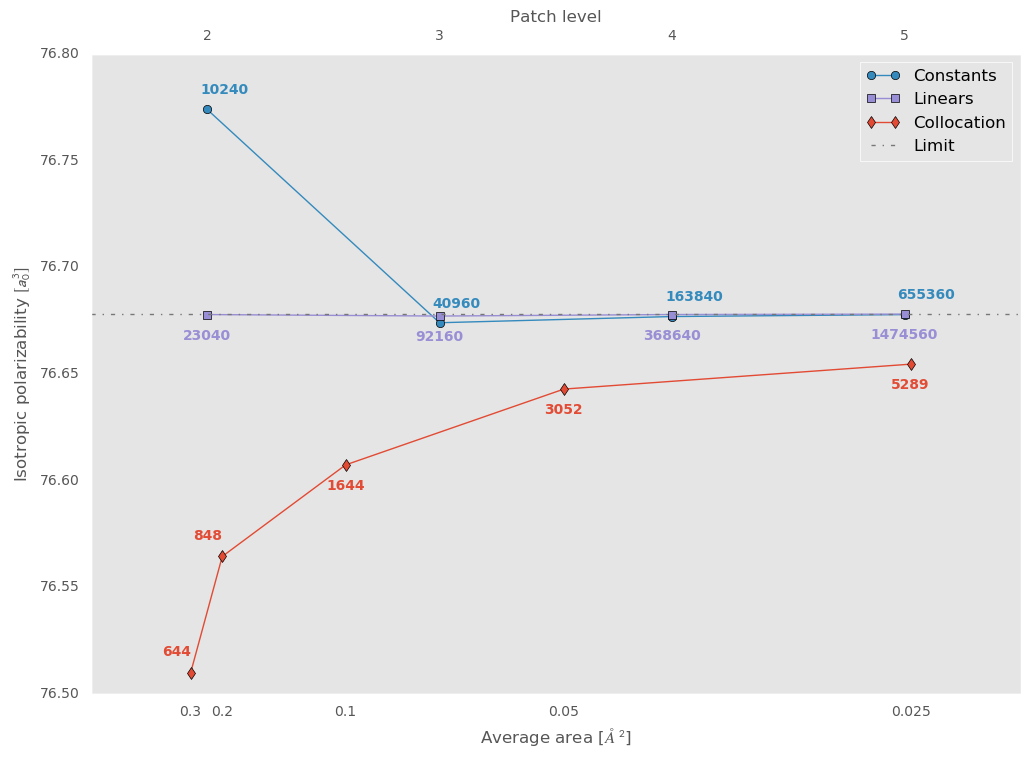
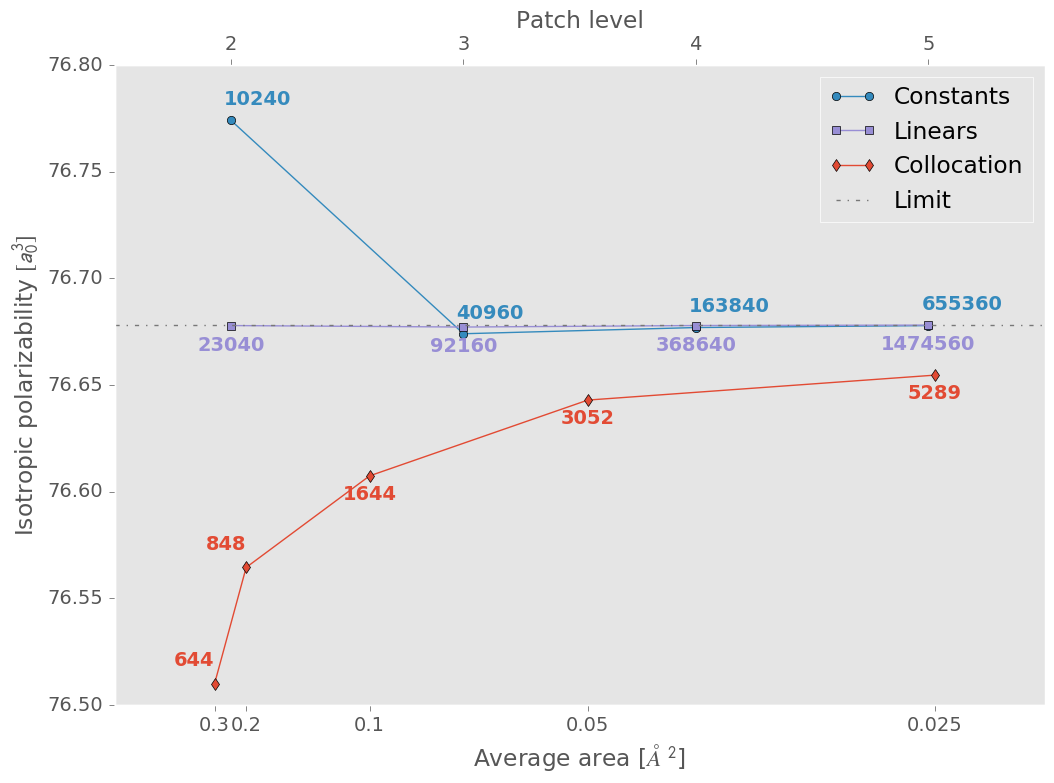
wemlin paper summary: add picture to text.

diff --git a/Chapters/Ch04-PaperSummary.tex b/Chapters/Ch04-PaperSummary.tex
@@ -11,7 +11,8 @@
 
 In the following, I provide a brief summary of the motivations, contents and
 conclusions of the papers this thesis is based on.
-Figures and tables here reported are taken \emph{verbatim} from the published work.
+Figures and tables here reported are minimally modified versions taken from the published work,
+captions are instead copied \emph{verbatim}.
 In addition, I give a description of my contributions to the work leading to
 the publication of each of the papers.
 \todo[inline]{Write something along these lines: "My coauthors have all read and approved."}
@@ -129,7 +130,7 @@ I performed most of the data analysis and produced tables and graphs.
 
 \begin{figure}[tb]
  \centering
-  \missingfigure{Reobtain plot from paper using a style similar to that in MPA paper}
+  \includegraphics[width=\textwidth]{gfx/wemlin/alpha_convergence.png}
   \caption[Convergence of $\alpha_\mathrm{iso}$ with respect to the number of molecular
   electrostatic potential (MEP) evaluation points on the cavity surface.]
   {Convergence of $\alpha_\mathrm{iso}$ with respect to the number of

diff --git a/gfx/wemlin/alpha_convergence.py b/gfx/wemlin/alpha_convergence.py
@@ -10,11 +10,15 @@ import matplotlib.pyplot as plt
 
 import numpy as np
 
-params = {'text.usetex': False, 'mathtext.fontset': 'stixsans'}
-mpl.rcParams.update(params)
 mpl.style.use('ggplot')
 # The colors are from the ggplot style, consistent with grey background
 ggplot = ['#E24A33', '#348ABD', '#988ED5', '#777777', '#FBC15E', '#8EBA42', '#FFB5B8']
+
+params = {'text.usetex': False,
+          'mathtext.fontset': 'stixsans',
+          'font.size' : 14
+         }
+mpl.rcParams.update(params)
 
 limit = 76.678052
 # Get the data
@@ -80,13 +84,8 @@ ax2.set_xticklabels(labels)
 
 l4 = ax2.plot((1.5, 5.5), (limit, limit), label='Limit', ls='-.', color=ggplot[3])
 
-#ax.set_ylim([-5.26, -5.16])
 ax.yaxis.set_major_formatter(y_formatter)
 ax.set_ylabel(r'Isotropic polarizability $[a_0^3]$')
-ax.yaxis.set_ticks_position('none')
-
-ax.xaxis.set_ticks_position('none')
-ax2.xaxis.set_ticks_position('none')
 
 ax.grid(False)
 ax2.grid(False)
